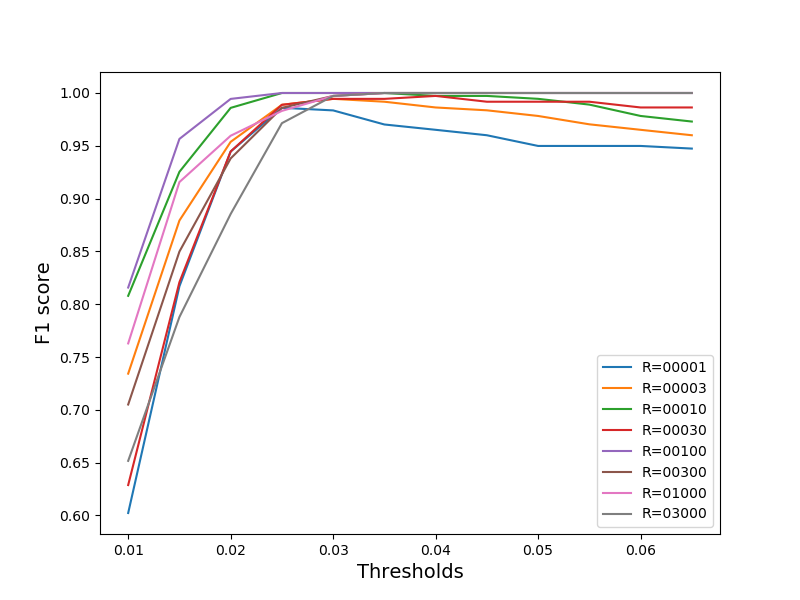
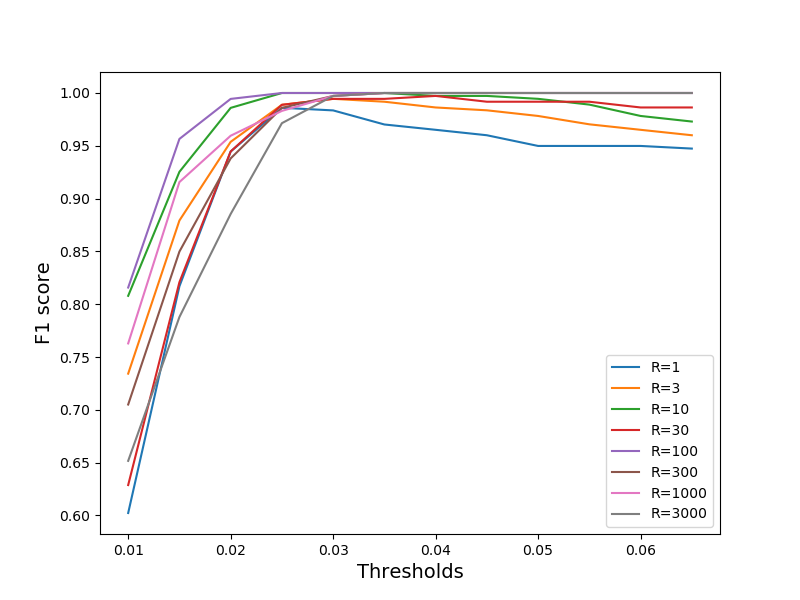
changed plot legend

Changed region(s): [[0.7812, 0.6, 0.875, 0.87]]

diff --git a/utils/detection_algo_val_accuracy.py b/utils/detection_algo_val_accuracy.py
@@ -109,7 +109,7 @@ def draw_f1_vs_threshold (dict_l_f1):
     #ax1 = fig1.add_subplot(1,1,1)
     
     for rvalue, list_f1 in dict_l_f1.items():
-        plt.plot(thresholds, list_f1, label= f'R={rvalue}')
+        plt.plot(thresholds, list_f1, label= f'R={str(int(rvalue))}')
     
     plt.xlabel('Thresholds', fontsize=14)
     plt.ylabel('F1 score', fontsize=14)
@@ -256,16 +256,16 @@ def plot_accu_vs_rounds():
         
     
 #save_results_mal_agents_with_saved_parameters()        #run this once to save the detection results  
-#dict_of_l_f1, dict_of_l_TPR, dict_of_l_FPR, dict_of_l_precision= wrapper_for_plots()
+dict_of_l_f1, dict_of_l_TPR, dict_of_l_FPR, dict_of_l_precision= wrapper_for_plots()
 
 ##draw thershold vs F1 score plot
-#draw_f1_vs_threshold(dict_of_l_f1)
+draw_f1_vs_threshold(dict_of_l_f1)
 
 ##draw roc
 #draw_roc_curve(dict_of_l_TPR, dict_of_l_FPR, dict_of_l_precision)
 
 #draw accu vs rounds curve
-plot_accu_vs_rounds()
+#plot_accu_vs_rounds()
 
 
 
